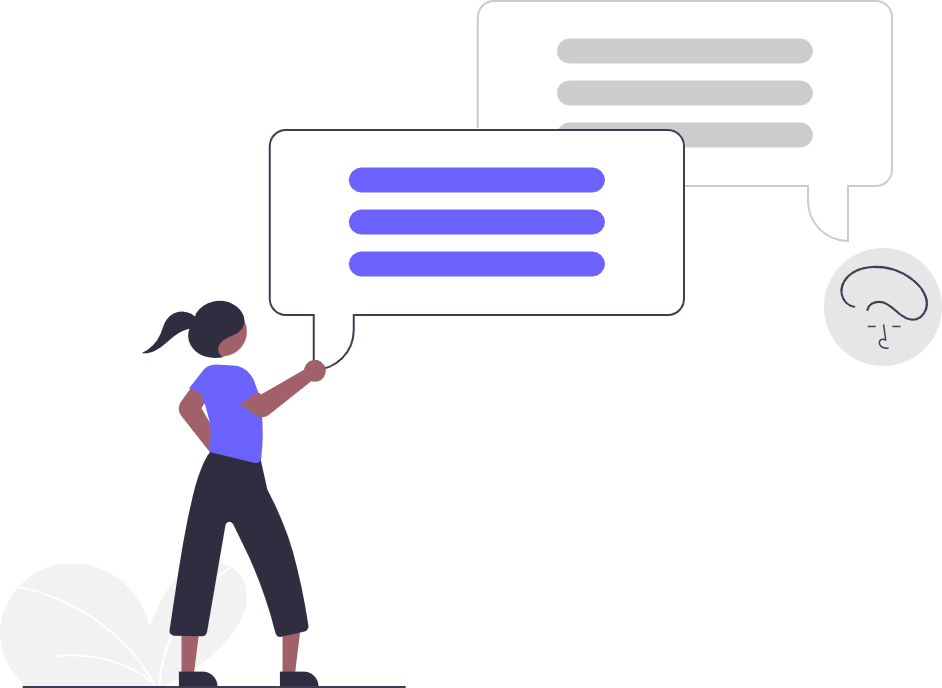
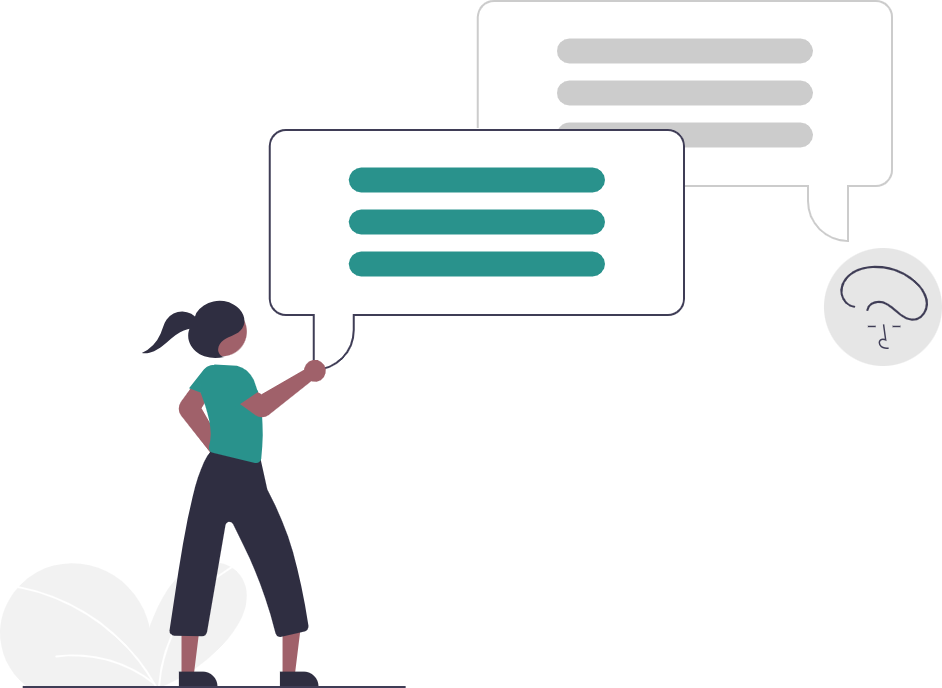
Change color scheme across the app
The changes in color scheme, as implemented in messaging, has been added to the rest of the application, ensuring style congruency.

Changed region(s): [[0.3694, 0.2442, 0.6465, 0.4273], [0.1847, 0.5189, 0.2771, 0.6715]]

diff --git a/src/components/ChatGroupListItem.tsx b/src/components/ChatGroupListItem.tsx
@@ -34,7 +34,7 @@ export default function ChatGroupListItem({group}: {group: ChatGroupSchema}): Re
                 <Text>{group.description}</Text>
             </View>
 
-            <Ionicons name="chevron-forward" size={24} color="black" />
+            <Ionicons name="chevron-forward" size={24} color="#29928c" />
         </Pressable>
     )
 }

diff --git a/src/components/LoadingScreen.tsx b/src/components/LoadingScreen.tsx
@@ -9,7 +9,7 @@ import {ReactElement} from "react";
 export default function LoadingScreen(): ReactElement {
     return (
         <View style={styles.container}>
-            <ActivityIndicator size="large" color={"#f0f"} />
+            <ActivityIndicator size="large" color={"#29928c"} />
         </View>
     )
 }
